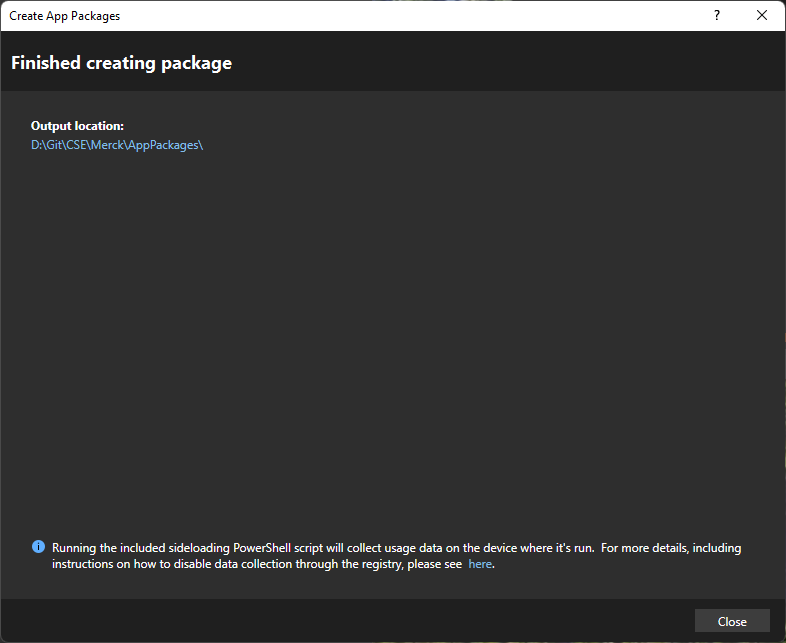
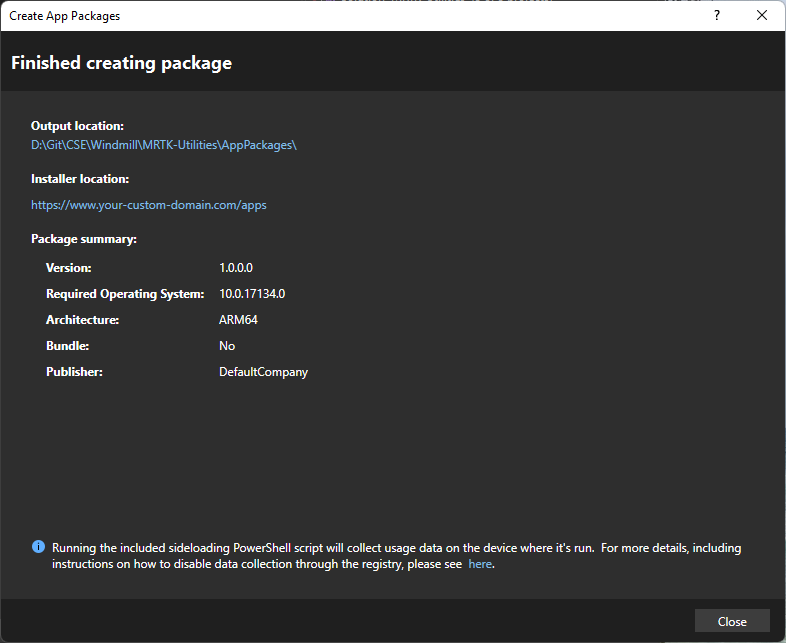
Enhanced documentation (#9)

diff --git a/README.md b/README.md
@@ -1,6 +1,22 @@
 # MRTK Utilities
 
-This is the Unity based HoloLens 2 Application using MRTK 2. This application used to demonstrate MRTK Utilities and basic setup of a project.
+This is the Unity based HoloLens 2 Application using MRTK 2. This application used to demonstrate MRTK Utilities and basic setup of a project. The implementation is based on learnings from a project a Microsoft CSE team I was part of did for an enterprise customer. There is a series of blogposts that explain more about the learnings contained in this repo:
+
+An overview of the posts can be found here: [Learnings from developing a HoloLens Application - Martin Tirion - Medium](https://mtirion.medium.com/learnings-from-developing-a-hololens-application-c0c9d38730fc). The topics we covered in this sharing are:
+
+- [Setting up a Unity-based application for HoloLens with MRTK | by Martin Tirion | Aug, 2022 | Medium](https://mtirion.medium.com/setting-up-a-unity-based-application-for-hololens-with-mrtk-6d079aff47a6)
+- [Adding Application Settings to a Unity-based HoloLens Application | by Martin Tirion | Aug, 2022 | Medium](https://mtirion.medium.com/adding-application-settings-to-a-unity-based-hololens-application-c9632fb52c5a)
+- [Authenticate a HoloLens Application to the Azure AD. | by Martin Tirion | Aug, 2022 | Medium](https://mtirion.medium.com/authenticate-a-hololens-application-to-the-azure-ad-ad551fbb8440)
+- [A Ready To Use Debug Console for your HoloLens Application | by Martin Tirion | Aug, 2022 | Medium](https://mtirion.medium.com/a-ready-to-use-debug-console-for-you-hololens-application-6b9913d93377)
+- [Creating a PDF Document Viewer in a HoloLens Application | by Martin Tirion | Aug, 2022 | Medium](https://mtirion.medium.com/creating-a-pdf-document-viewer-in-a-hololens-application-fad0f1399e27)
+
+## Unity Packages
+
+In the folder [CSE.MRTK.Toolkit.Packages](./CSE.MRTK.Toolkit.Packages) these Unity packages are made available:
+
+* [Application base](./CSE.MRTK.Toolkit.Packages/cse.mrtk.toolkit.application.base.unitypackage) - This provides an **Application** hierarchy as starting point for the structure of an Unity application using MRTK for HoloLens. In contains some basic classes as well on setting, authentication and more. For more information see [Setting up a Unity-based application for HoloLens with MRTK ](https://mtirion.medium.com/setting-up-a-unity-based-application-for-hololens-with-mrtk-6d079aff47a6), [Adding Application Settings to a Unity-based HoloLens Application](https://mtirion.medium.com/adding-application-settings-to-a-unity-based-hololens-application-c9632fb52c5a) and [Authenticate a HoloLens Application to the Azure AD](https://mtirion.medium.com/authenticate-a-hololens-application-to-the-azure-ad-ad551fbb8440)
+* [Debug Console](./CSE.MRTK.Toolkit.Packages/cse.mrtk.toolkit.debugconsole.unitypackage) - A **debug console** prefab using MRTK to show debug messages at runtime. You can also save the messages to a file. For more information see [A Ready To Use Debug Console for your HoloLens Application](https://mtirion.medium.com/a-ready-to-use-debug-console-for-you-hololens-application-6b9913d93377).
+* [Document Viewer](./CSE.MRTK.Toolkit.Packages/cse.mrtk.toolkit.documentviewer.unitypackage) - A **document viewer** prefab using MRTK and Paroxe (not included) to show PDF documents. For more information see [Creating a PDF Document Viewer in a HoloLens Application](https://mtirion.medium.com/creating-a-pdf-document-viewer-in-a-hololens-application-fad0f1399e27).
 
 ## Prerequisites
 
@@ -41,3 +57,6 @@ You can deploy to **Device** when attached to USB or to **Remote** over WIFI. If
 
 For more information (including setting up your HoloLens for side loading) see [Using Visual Studio to deploy and debug - Mixed Reality | Microsoft Docs](https://docs.microsoft.com/en-us/windows/mixed-reality/develop/advanced-concepts/using-visual-studio?tabs=hl2)
 
+## Package
+
+For instructions how to package the app to deploy to a HoloLens, see the article [Creating the App Package to publish](./docs/publish.md).
